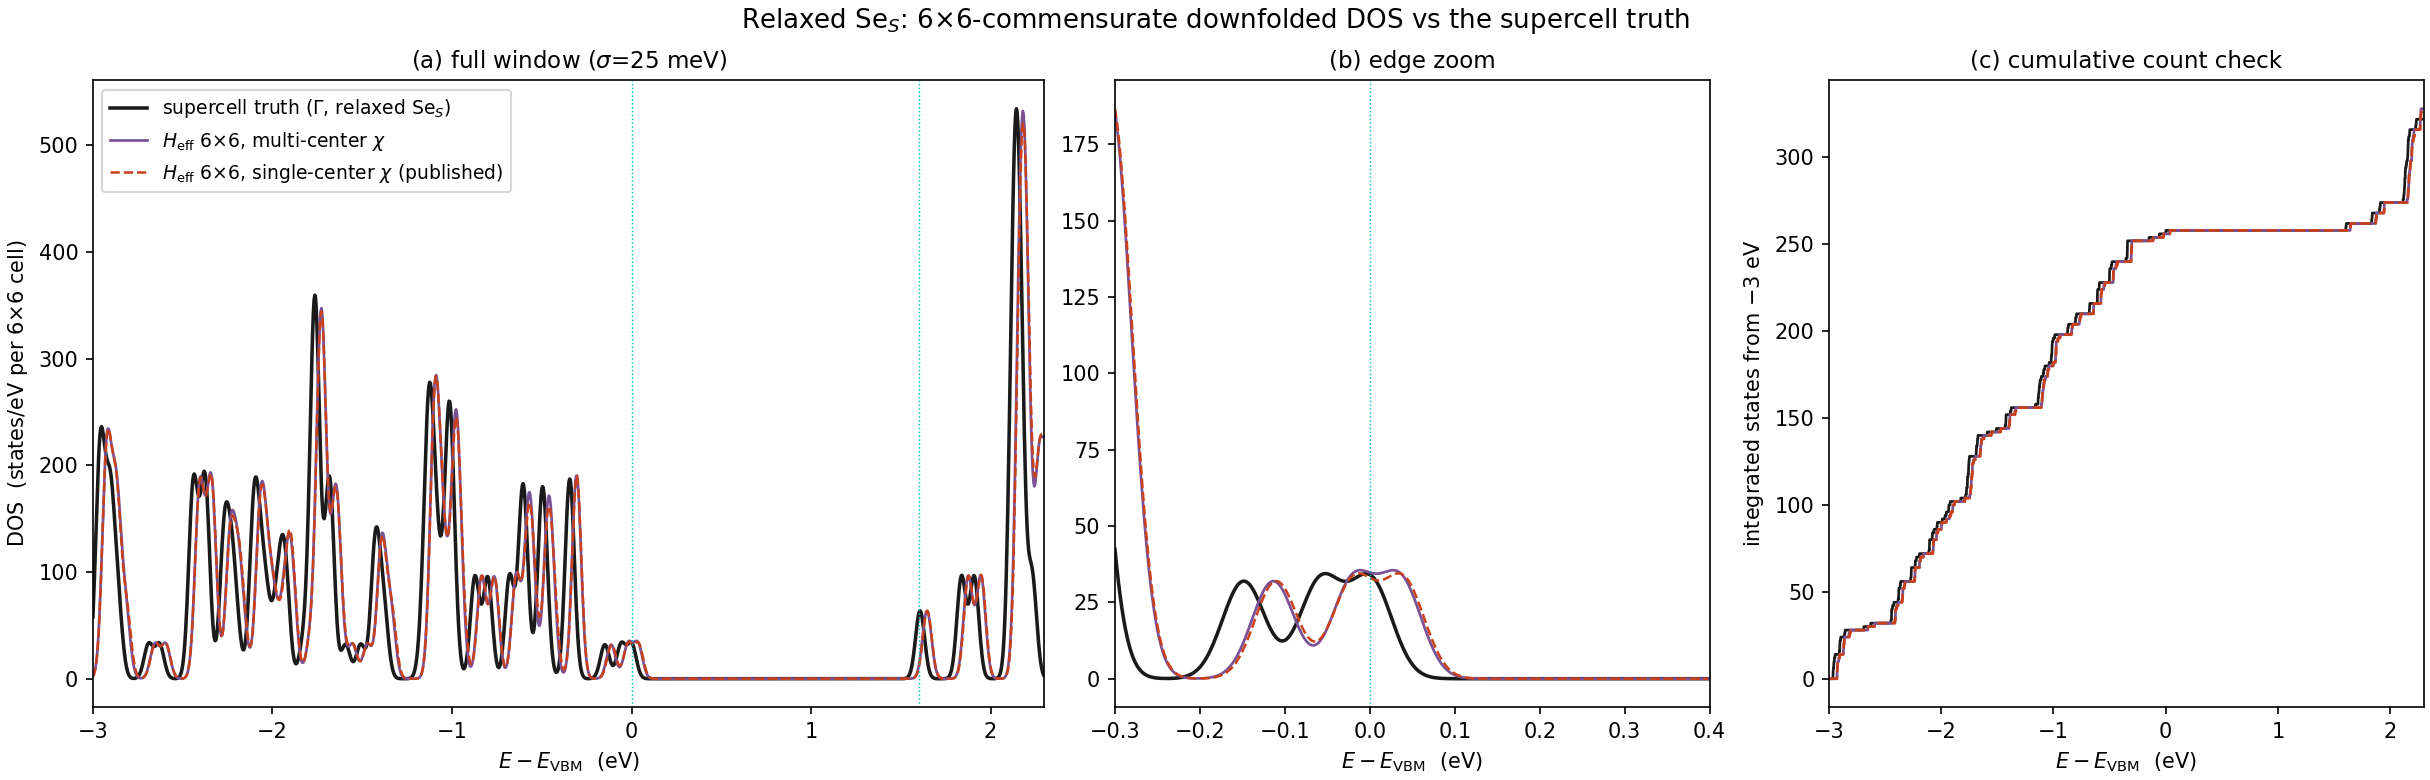
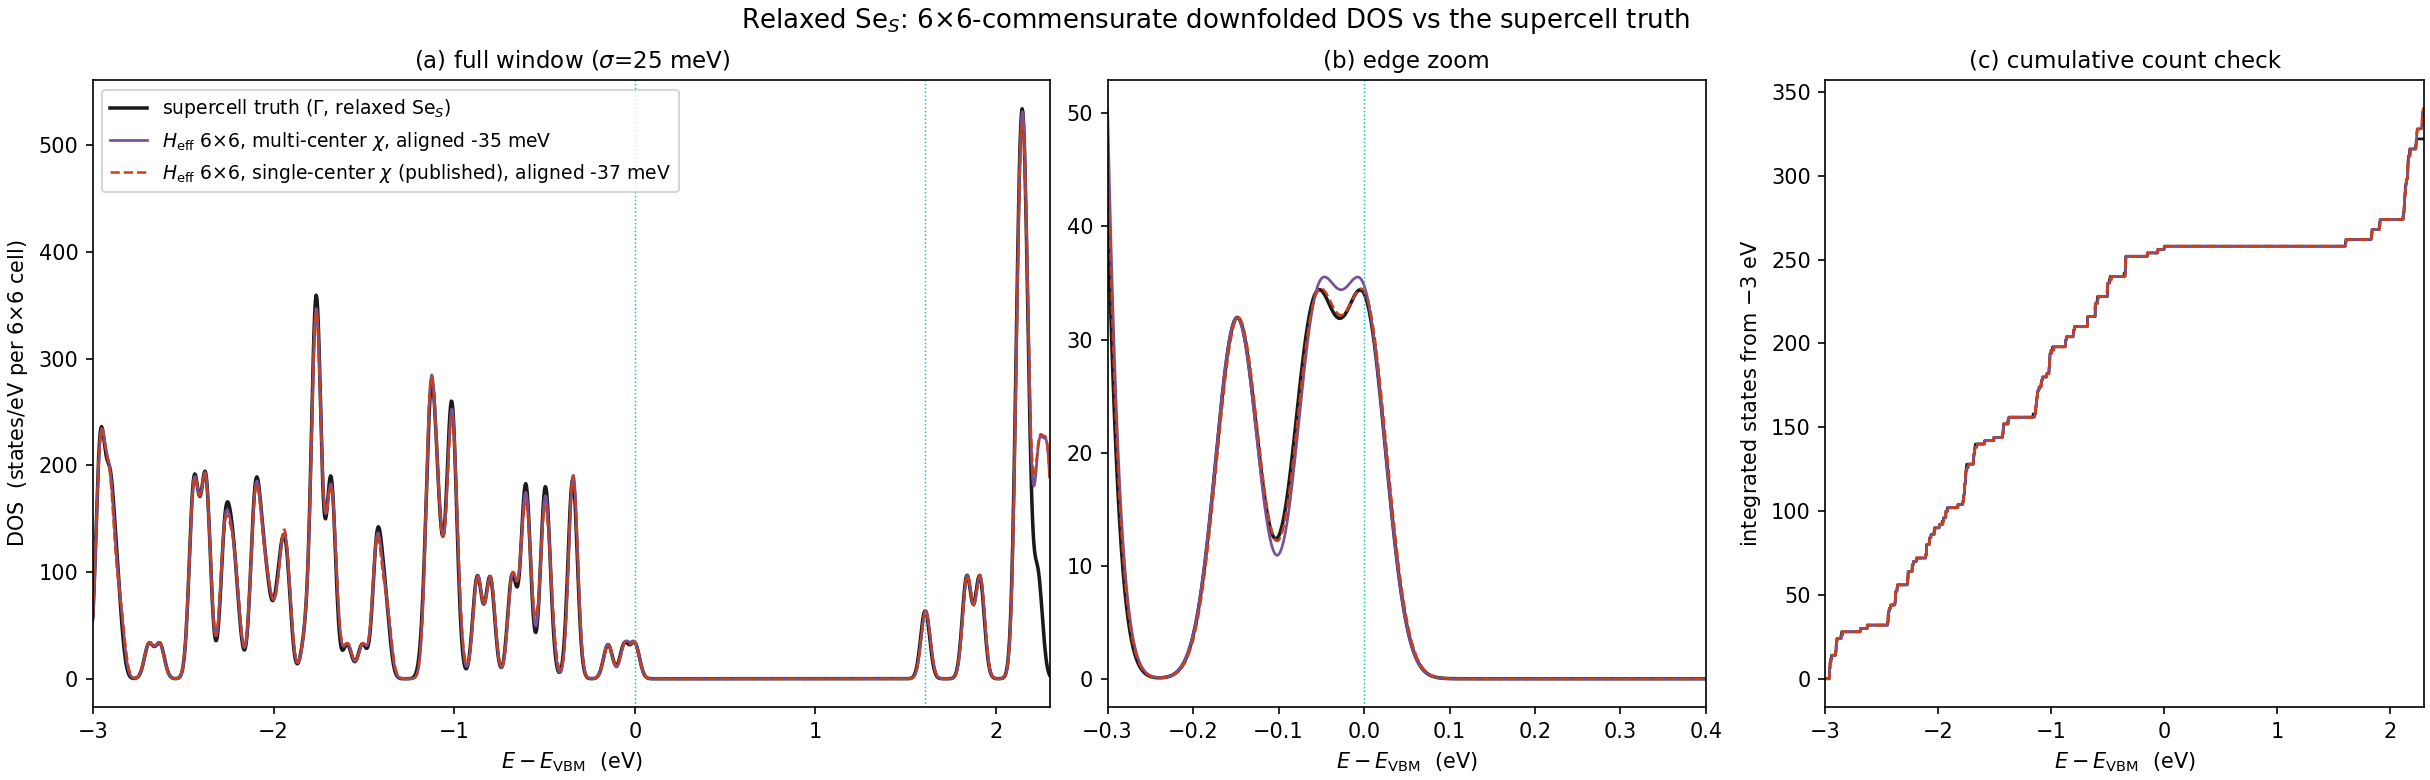
relaxation §7: DOS gate figures VBM-peak aligned (scheme-independent global shifts noted per defect)

diff --git a/docs/pages/relaxation.html b/docs/pages/relaxation.html
@@ -118,10 +118,10 @@
 <h4>The commensurate DOS gate: like-for-like against the relaxed supercell</h4>
 <p>A clean full-spectrum check exists because the 12&times;12 production grid <em>contains</em> the $\Gamma$-centered 6&times;6 subgrid: slicing the 36&times;36 k-block out of the production $M(k_i,k_f)$ (no new EDI run) and building $H_{\rm eff}$ with the 1/36 concentration factor yields <em>exactly the defect superlattice the 6&times;6 supercell computes</em> &mdash; same object, same sampling, and DOS is basis-agnostic. Whatever differs between its spectrum and the relaxed-supercell $\Gamma$ spectrum is pure basis truncation, measured across the whole spectrum at once.</p>
 <figure><img src="../assets/vs_dos66.png" alt="6x6-commensurate downfolded DOS vs supercell truth, relaxed V_S" style="width:100%;max-width:1500px">
-<figcaption><strong>Relaxed V$_S$, 6&times;6-commensurate DOS gate.</strong> (a) Full window: the truncated-basis DOS tracks the supercell truth peak-by-peak through the valence manifold and conduction edge; no-aug leaves a spurious peak at $\sim$+0.2&nbsp;eV (the $a_1$ phantom in DOS form) that multi-center $\chi$ removes. (b) Gap zoom &mdash; the $e$-doublet as exact eigenvalues: truth 1.0985/1.1472, keep-60 +71&nbsp;meV, no-aug +246&nbsp;meV; these match the 144-k production numbers to 4&ndash;6&nbsp;meV, showing the superlattice (concentration) effect on levels is meV-scale and the dilute production setting is clean. (c) Cumulative state count: 324 / 326 / 322 in the window (truth / keep-60 / no-aug) &mdash; the $\pm$2 are the $\chi$ block's in-window spectral capacity and truncation losses at the window edge. State accounting closes to $\pm$0.6%.</figcaption></figure>
+<figcaption><strong>Relaxed V$_S$, 6&times;6-commensurate DOS gate.</strong> (a) Full window: the truncated-basis DOS tracks the supercell truth peak-by-peak through the valence manifold and conduction edge; no-aug leaves a spurious peak at $\sim$+0.2&nbsp;eV (the $a_1$ phantom in DOS form) that multi-center $\chi$ removes. (b) Gap zoom &mdash; the $e$-doublet as exact eigenvalues: truth 1.0985/1.1472, keep-60 +71&nbsp;meV, no-aug +246&nbsp;meV; these match the 144-k production numbers to 4&ndash;6&nbsp;meV, showing the superlattice (concentration) effect on levels is meV-scale and the dilute production setting is clean. (c) Cumulative state count: 324 / 326 / 322 in the window (truth / keep-60 / no-aug) &mdash; the $\pm$2 are the $\chi$ block's in-window spectral capacity and truncation losses at the window edge. State accounting closes to $\pm$0.6%. Curves are <em>VBM-peak aligned</em> (cross-correlation of the near-edge valence DOS; applied shifts in the legend: $-$21/$-$27&nbsp;meV) &mdash; the shifts are scheme-independent, i.e. a global valence-manifold alignment property of the truncated basis, not a $\chi$ effect; quoted level positions elsewhere on this page remain in the deep-band truth-gate convention (in the aligned frame the $e$-doublet overshoots read +50&nbsp;meV / +225&nbsp;meV).</figcaption></figure>
 <figure><img src="../assets/os_dos66.png" alt="O_S commensurate DOS gate" style="width:100%;max-width:1500px">
 <img src="../assets/ses_dos66.png" alt="Se_S commensurate DOS gate" style="width:100%;max-width:1500px">
-<figcaption><strong>The same gate for O$_S$ and Se$_S$ (relaxed).</strong> O$_S$: the full-window DOS tracks the truth throughout, and the edge zoom shows the two-sided bracketing in DOS form &mdash; the truth's O-2$p$ hump sits just above the VBM (+0.036/+0.055&nbsp;eV pair), single-center $\chi$ places its weight above it (peak near +0.10), multi-center below (near $-$0.01). Se$_S$: both schemes track the truth's edge structure to $\sim$35&nbsp;meV. Cumulative counts: O$_S$ 322/334/326 and Se$_S$ 322/328/328 (truth / multi / single) &mdash; larger $\chi$ blocks carry more in-window spectral capacity. One genuine physics note from the commensurate construction: deep states (the V$_S$ $e$-doublet) shift only 4&ndash;6&nbsp;meV between the 6&times;6 and 12&times;12 samplings, while the shallow edge resonances of O$_S$/Se$_S$ move 20&ndash;40&nbsp;meV &mdash; spatially extended resonances feel the defect superlattice, deep bound states do not.</figcaption></figure>
+<figcaption><strong>The same gate for O$_S$ and Se$_S$ (relaxed).</strong> O$_S$: the full-window DOS tracks the truth throughout, and the edge zoom shows the two-sided bracketing in DOS form &mdash; the truth's O-2$p$ hump sits just above the VBM (+0.036/+0.055&nbsp;eV pair), single-center $\chi$ places its weight above it (peak near +0.10), multi-center below (near $-$0.01). Se$_S$: both schemes track the truth's edge structure to $\sim$35&nbsp;meV. Cumulative counts: O$_S$ 322/334/326 and Se$_S$ 322/328/328 (truth / multi / single) &mdash; larger $\chi$ blocks carry more in-window spectral capacity. One genuine physics note from the commensurate construction: deep states (the V$_S$ $e$-doublet) shift only 4&ndash;6&nbsp;meV between the 6&times;6 and 12&times;12 samplings, while the shallow edge resonances of O$_S$/Se$_S$ move 20&ndash;40&nbsp;meV &mdash; spatially extended resonances feel the defect superlattice, deep bound states do not. All curves VBM-peak aligned (shifts, scheme-independent per defect: O$_S$ +47/+43&nbsp;meV, Se$_S$ $-$35/$-$37&nbsp;meV).</figcaption></figure>
 <p><strong>The spectral pin (SPEC_W0).</strong> The spectral-function pipeline is two-tier: a static L&ouml;wdin fold of everything outside the active window &mdash; including the $\chi$ block &mdash; pinned at a reference energy $W_0$ (default: the VBM), then fully dynamical Dyson per $\omega$ inside the window. Measured on relaxed-V$_S$ (keep&nbsp;60): moving the pin VBM&rarr;CBM shifts the $e$-manifold resonance by $\sim$30&nbsp;meV (1.198/1.246 &rarr; 1.170/1.214; the pin-free diagonalization sits at 1.174/1.222). The driver is the $\chi$ directions inside the folded space &mdash; energetically close to the window &mdash; so the sensitivity appears only in augmented runs. Rules adopted: quantitative level positions are read from the pin-free diagonalization; spectral-map features far from the pin carry a $\pm$30&nbsp;meV placement systematic (re-pin via <code>SPEC_W0</code> when a specific feature matters). All calibration ladders on this page are diagonalization-based and unaffected.</p>
 <p><strong>Verdict, in three layers.</strong> (i) The displacement-specific inflation &mdash; the 210&nbsp;meV by which the relaxed no-aug overshoot exceeds the ideal one &mdash; is <strong>$\sim$83% removed</strong>: displaced-neighbor $\chi$ does what it was built for, and the ladder saturates by keep&nbsp;60 (keep&nbsp;76 adds 1&nbsp;meV). (ii) The residual shift error ($\sim$+33&nbsp;meV) traces to the <em>vacancy-intrinsic</em> deficiency present in both arms: the $a_1$ state, concentrated in the void, barely responds to neighbor $\chi$ (+133&nbsp;&rarr;&nbsp;+124&nbsp;meV overshoot). (iii) Two structural facts, learned the hard way and now load-bearing: <em>Bloch-sum augmentation cannot distinguish centers that are primitive-lattice translates</em> (the 144-k structure already supplies per-cell resolution &mdash; one center per inequivalent site; the ideal-geometry 10-center attempt is exactly singular), and by the same theorem, <em>"$\chi$ at the vacancy site" is already implicit</em> whenever any same-species center sits on that primitive site &mdash; the void state's stubbornness is not a coverage gap but a statement that it is not atomic-$\chi$-shaped. A more diffuse ghost (Se radials at the vacancy, <code>aug_ghost_species</code>) recovers 24&nbsp;meV of the $a_1$ overshoot and 2&nbsp;meV of the $e$-pair &mdash; diminishing returns that mark the practical boundary of A1-form augmentation. The supercell truth gate remains the standing rule for relaxed-geometry defect levels.</p>
 <p class="small">Ops footnote: the SCF also settled the hybrid-layout question &mdash; single-node 56&nbsp;MPI&nbsp;&times;&nbsp;4&nbsp;OMP beats flat 224&nbsp;MPI by 18% (1h13m vs 1h29m), while 2-node pw.x is 10&ndash;15&times; slower per iteration (&Gamma;-point FFT all-to-all across the fabric) and is now banned for supercell SCF; EDI itself is fine on 2 nodes (k-pair pools): 737&nbsp;s at 48 pools vs 3136&nbsp;s at 4. Artifacts: <code>~/mos2_soc/sc/Sdisp</code>, <code>~/mos2_soc/edi_disp</code> (edmat 6.5&nbsp;GB, <code>spec/spectral_path.npz</code>), figures <code>post/plot_sdisp_levels.py</code>, <code>post/plot_spectral_path.py</code>.</p>
